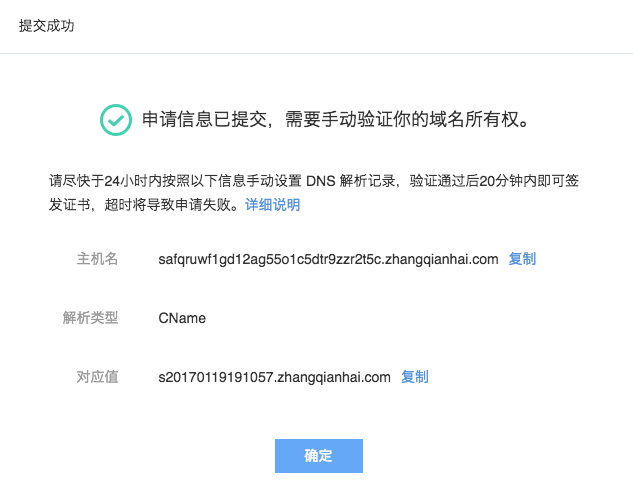
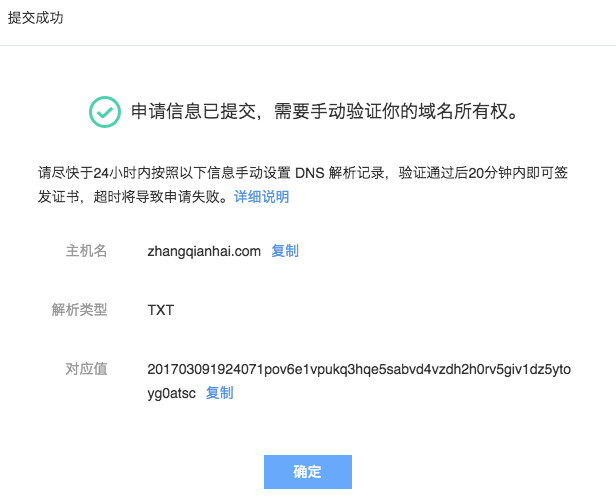
Symantec证书验证方式升级

diff --git a/平台服务/SSL证书管理/使用指南/申请SSL证书.md b/平台服务/SSL证书管理/使用指南/申请SSL证书.md
@@ -44,6 +44,11 @@ DV 证书不支持下载，仅支持在蜂巢上部署。
 
 ## 添加 DNS 解析记录
 
+<span>Attention:</span>
+解析类型必须为 TXT
+申请域名以 www 开头或主域，如 www.163.com、163.com，则主机名填写 @
+其他二级域名，如 c.163.com 则主机名填写 c。
+
 申请证书需要通过添加 DNS 解析来验证域名所有权。一般来说在你的域名供应商处都可以设置解析。
 
 蜂巢域名系统添加解析方法详见：[如何设置解析](http://support.c.163.com/md.html#!网站服务/域名系统/使用指南/设置解析.md)，你根据提示内容依次输入主机名、解析类型、对应值即可。

diff --git a/平台服务/SSL证书管理/使用指南/吊销SSL证书.md b/平台服务/SSL证书管理/使用指南/吊销SSL证书.md
@@ -22,6 +22,11 @@
 
 ## 添加 DNS 解析记录
 
+<span>Attention:</span>
+解析类型必须为 TXT
+申请域名以 www 开头或主域，如 www.163.com、163.com，则主机名填写 @
+其他二级域名，如 c.163.com 则主机名填写 c。
+
 吊销证书需要通过添加 DNS 解析来验证域名所有权。一般来说在你的域名供应商处都可以设置解析。
 
 蜂巢域名系统添加解析方法详见：[如何设置解析](http://support.c.163.com/md.html#!网站服务/域名系统/使用指南/设置解析.md)，你根据提示内容依次输入主机名、解析类型、对应值即可。
